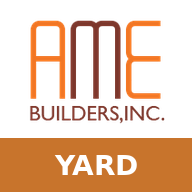
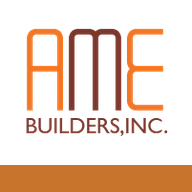
v2.20: AME app shell - home screen with app tiles (Yard Inventory, MPL); modules plug in via AME.register; app renamed AME
Claude-Session: https://claude.ai/code/session_01MuJZizcLzamGA5gsEYcXgC

diff --git a/shell.js b/shell.js
@@ -1,0 +1,34 @@
+/* AME app shell — one app, many modules (Yard Inventory, MPL, …) */
+(function(){
+const SVG={
+ yard:'<svg viewBox="0 0 24 24" fill="none" stroke="currentColor" stroke-width="1.8" stroke-linejoin="round"><path d="M3 21V9l9-5 9 5v12"/><path d="M7 21v-6h4v6M13 21v-4h4v4"/><path d="M7 11h10"/></svg>',
+ mpl:'<svg viewBox="0 0 24 24" fill="none" stroke="currentColor" stroke-width="1.8" stroke-linecap="round" stroke-linejoin="round"><rect x="5" y="3" width="14" height="18" rx="2"/><path d="M9 3v3h6V3"/><path d="M8.5 11l1.5 1.5 3-3M8.5 16.5l1.5 1.5 3-3"/></svg>',
+ more:'<svg viewBox="0 0 24 24" fill="none" stroke="currentColor" stroke-width="1.8" stroke-linecap="round"><path d="M12 5v14M5 12h14"/></svg>'};
+const AME=window.AME={modules:[],cur:'',
+  register(m){if(!this.modules.find(x=>x.id===m.id))this.modules.push(m);if(this.cur==='home')renderHome()},
+  mod(id){return this.modules.find(m=>m.id===id)},
+  allowed(m){return !m.perm||can(m.perm)},
+  home(){const ok=this.modules.filter(m=>this.allowed(m));if(ok.length===1){this.open(ok[0].id);return}setMod('home');showTab('home')},
+  open(id){const m=this.mod(id);if(!m||!this.allowed(m))return;setMod(id);m.open()}};
+AME.register({id:'yard',name:'Yard Inventory',desc:'Take out · return · receive · repair · audit',icon:SVG.yard,tabs:['yard','inv','jobs','log','sheet'],open:()=>showTab('yard')});
+document.querySelector('main').insertAdjacentHTML('afterbegin','<section id="tab-home" hidden></section>');
+function setMod(id){AME.cur=id;const m=AME.mod(id);const sub=document.querySelector('#brand small');if(sub)sub.textContent=m?m.name:'Apps';
+  document.querySelectorAll('nav.tabs button[data-tab]').forEach(b=>b.classList.toggle('offmod',!m||!(m.tabs||[]).includes(b.dataset.tab)));
+  document.body.dataset.mod=id;try{sessionStorage.setItem('ameMod',id)}catch(e){}}
+function renderHome(){const el=document.getElementById('tab-home');if(!el)return;const mods=AME.modules.filter(m=>AME.allowed(m));
+  el.innerHTML=`<div class="homehead"><h2>Hi ${esc(curUser||'')}</h2><p class="muted">What are you working on?</p></div>
+  <div class="apps">${mods.map(m=>`<button class="apptile" data-app="${m.id}"><span class="appic">${m.icon||''}</span><b>${esc(m.name)}</b><small>${esc(m.desc||'')}</small></button>`).join('')}
+  ${isOwner(curUser)?`<div class="apptile soon"><span class="appic">${SVG.more}</span><b>More apps</b><small>New AME tools will show up here</small></div>`:''}</div>`;
+  el.querySelectorAll('[data-app]').forEach(b=>b.onclick=()=>AME.open(b.dataset.app))}
+const _st=window.showTab;window.showTab=function(t){
+  const secs=AME.modules.filter(m=>m.section).map(m=>m.section);const hideSecs=()=>secs.forEach(x=>{const e=document.getElementById(x);if(e)e.hidden=true});
+  if(t==='home'){_st('yard');document.getElementById('tab-yard').hidden=true;hideSecs();
+    document.getElementById('tab-home').hidden=false;document.querySelectorAll('nav.tabs button').forEach(b=>b.setAttribute('aria-selected','false'));setMod('home');renderHome();scrollTo({top:0});return}
+  document.getElementById('tab-home').hidden=true;hideSecs();const owner=AME.modules.find(m=>(m.tabs||[]).includes(t));
+  if(owner&&owner.section){_st('yard');document.getElementById('tab-yard').hidden=true;document.getElementById(owner.section).hidden=false;document.querySelectorAll('nav.tabs button').forEach(b=>b.setAttribute('aria-selected',b.dataset.tab===t));setMod(owner.id);if(owner.onShow)owner.onShow();scrollTo({top:0});return}
+  if(owner&&owner.id!==AME.cur)setMod(owner.id);_st(t)};
+const _su=window.setUser;window.setUser=function(n){const ch=n!==curUser;_su(n);if(ch&&n)setTimeout(()=>AME.home(),30)};
+let started=false;const _ar=window.applyRole;window.applyRole=function(){_ar();if(curUser&&!started){started=true;setTimeout(()=>{if(start==='home'||!AME.mod(start))AME.home();else AME.open(start)},0);return}if(AME.cur)setMod(AME.cur);if(AME.cur==='home')renderHome()};
+document.getElementById('brand').onclick=()=>{try{closeDlg()}catch(e){}if(curUser)AME.home();else showTab('yard')};
+let start='home';try{start=sessionStorage.getItem('ameMod')||'home'}catch(e){}
+})();

diff --git a/index.html b/index.html
@@ -1,6 +1,6 @@
 <!doctype html>
-<html lang="en"><head><meta charset="utf-8"><meta name="viewport" content="width=device-width,initial-scale=1,maximum-scale=1,user-scalable=no,viewport-fit=cut"><meta name="apple-mobile-web-app-capable" content="yes"><link rel="manifest" href="manifest.json"><link rel="apple-touch-icon" href="apple-touch-icon.png"><link rel="icon" href="icon-192.png"><meta name="apple-mobile-web-app-title" content="AME Yard"><meta name="theme-color" content="#2b2724"></head><body>
-<title>AME Yard Inventory</title>
+<html lang="en"><head><meta charset="utf-8"><meta name="viewport" content="width=device-width,initial-scale=1,maximum-scale=1,user-scalable=no,viewport-fit=cut"><meta name="apple-mobile-web-app-capable" content="yes"><link rel="manifest" href="manifest.json"><link rel="apple-touch-icon" href="apple-touch-icon.png"><link rel="icon" href="icon-192.png"><meta name="apple-mobile-web-app-title" content="AME"><meta name="theme-color" content="#2b2724"></head><body>
+<title>AME</title>
 <script src="https://cdnjs.cloudflare.com/ajax/libs/xlsx/0.18.5/xlsx.full.min.js"></script>
 <script src="https://cdn.jsdelivr.net/npm/@azure/msal-browser@3.27.0/lib/msal-browser.min.js"></script>
 <script src="msbackend.js"></script>
@@ -484,6 +484,13 @@ body:not(.owner) .owner-only{display:none!important}nav.tabs button[hidden]{disp
 .ylink{align-self:flex-start;background:none;border:1px solid var(--line);border-radius:999px;padding:2px 10px;font-size:12px;color:var(--muted);cursor:pointer}.ylink.ok{border-color:#3fb950;color:#3fb950}.ylink.low{border-color:var(--warn);color:var(--warn)}
 .modepick{max-width:520px}.modebtn{display:flex;flex-direction:column;gap:4px;width:100%;text-align:left;margin-top:10px;padding:18px;border-radius:14px;border:2px solid var(--line);background:var(--chip);color:inherit;font:inherit;cursor:pointer}.modebtn b{font-size:20px}.modebtn span{color:var(--muted);font-size:14px}.modebtn:hover{border-color:var(--accent,#f47b20)}
 td.bad{color:var(--bad)}
+
+#tab-home{padding-top:6px}.homehead h2{margin:4px 0 0}.apps{display:grid;grid-template-columns:repeat(auto-fill,minmax(240px,1fr));gap:14px;margin:16px 0 90px}
+.apptile{display:flex;flex-direction:column;gap:6px;text-align:left;padding:22px;border-radius:18px;border:1px solid var(--line);background:var(--panel);color:inherit;font:inherit;cursor:pointer;min-height:170px}
+.apptile:hover{border-color:var(--accent,#f47b20)}.apptile b{font-size:21px}.apptile small{color:var(--muted);font-size:14px}
+.appic{width:56px;height:56px;border-radius:14px;background:var(--accent,#f47b20);color:#fff;display:flex;align-items:center;justify-content:center;margin-bottom:6px}.appic svg{width:32px;height:32px}
+.apptile.soon{border-style:dashed;cursor:default;opacity:.7}.apptile.soon .appic{background:var(--chip);color:var(--muted)}
+nav.tabs button.offmod{display:none!important}body[data-mod="home"] nav.tabs{visibility:hidden}
 </style>
 
 <header class="top"><div class="wrap">
@@ -623,7 +630,7 @@ td.bad{color:var(--bad)}
 <div id="dlgRoot"></div>
 
 <script>
-const APP_VERSION='2.11',APP_DATE='2026-10-15';
+const APP_VERSION='2.20',APP_DATE='2026-10-15';
 const $=s=>document.querySelector(s), $$=s=>[...document.querySelectorAll(s)];
 const esc=s=>String(s??'').replace(/[&<>"]/g,c=>({'&':'&amp;','<':'&lt;','>':'&gt;','"':'&quot;'}[c]));
 const LS={get(k,d){try{const v=localStorage.getItem(k);return v==null?d:JSON.parse(v)}catch(e){return d}},set(k,v){try{localStorage.setItem(k,JSON.stringify(v))}catch(e){}}};
@@ -1578,5 +1585,6 @@ document.getElementById('rmGo').onclick=async()=>{const ids=[...picked];if(!ids.
     await db.doc((it.pending?'newitems/':'items/')+it.id).delete();db.doc('stock/'+it.id).delete().catch(()=>{});ok++}catch(e){toast('Could not remove '+it.name+': '+(e.message||e.code))}}
   b.textContent='Remove';selMode=false;picked.clear();toast(ok+' item(s) removed');renderYard()};
 </script>
+<script src="shell.js"></script>
 <script src="mpl.js"></script>
 </body></html>

diff --git a/mpl.js b/mpl.js
@@ -172,15 +172,10 @@ function renderView(){const box=el();const m=MPLS.find(x=>x._id===openId);if(!m)
         l.back=r}catch(e){toast('Could not return '+it.name+': '+(e.message||e.code))}}
     await db.doc('mpl/'+m._id).update({lines,status:'closed',closedAt:now,closedBy:curUser,updated:now});toast('MPL closed');render()}}
 
-/* ---------- mode chooser + wiring ---------- */
-function chooser(){if(!can('MPL'))return;const r=document.getElementById('dlgRoot');
-  r.innerHTML=`<div class="scrim"><div class="dlg modepick"><h3>Hi ${esc(curUser)} — what are you doing?</h3>
-   <button class="modebtn" data-mode="yard"><b>Yard Inventory</b><span>Take out, return, receive, repair, audit</span></button>
-   <button class="modebtn" data-mode="mpl"><b>Mobilization Prep List</b><span>Prepare a job: system → deck → scope → list → check out</span></button></div></div>`;
-  r.querySelectorAll('[data-mode]').forEach(b=>b.onclick=()=>{closeDlg();showTab(b.dataset.mode==='mpl'?'mpl':'yard')})}
-const _su=window.setUser;window.setUser=function(n){const ch=n!==curUser;_su(n);if(ch&&n)setTimeout(chooser,50)};
-const _st=window.showTab;window.showTab=function(t){if(t==='mpl'){_st('yard');document.getElementById('tab-yard').hidden=true;el().hidden=false;$$('nav.tabs button').forEach(b=>b.setAttribute('aria-selected',b.dataset.tab==='mpl'));view=view==='wiz'&&W?view:'list';render();return}
-  el().hidden=true;_st(t)};
-const _ar=window.applyRole;window.applyRole=function(){_ar();const b=document.querySelector('nav.tabs [data-tab="mpl"]');if(b)b.hidden=!can('MPL');document.body.classList.toggle('mplok',can('MPL'))};
+/* ---------- module registration ---------- */
+AME.register({id:'mpl',name:'Mobilization Prep List',desc:'Job → system → deck → scope → list → yard check-out',perm:'MPL',tabs:['mpl'],section:'tab-mpl',
+  icon:'<svg viewBox="0 0 24 24" fill="none" stroke="currentColor" stroke-width="1.8" stroke-linecap="round" stroke-linejoin="round"><rect x="5" y="3" width="14" height="18" rx="2"/><path d="M9 3v3h6V3"/><path d="M8.5 11l1.5 1.5 3-3M8.5 16.5l1.5 1.5 3-3"/></svg>',
+  open:()=>showTab('mpl'),onShow:()=>{view=view==='wiz'&&W?view:'list';render()}});
+const _ar=window.applyRole;window.applyRole=function(){_ar();const b=document.querySelector('nav.tabs [data-tab="mpl"]');if(b)b.hidden=!can('MPL')};
 (function wait(){if(typeof db!=='undefined'&&db&&typeof db.collection==='function'){load()}else setTimeout(wait,300)})();
 })();
